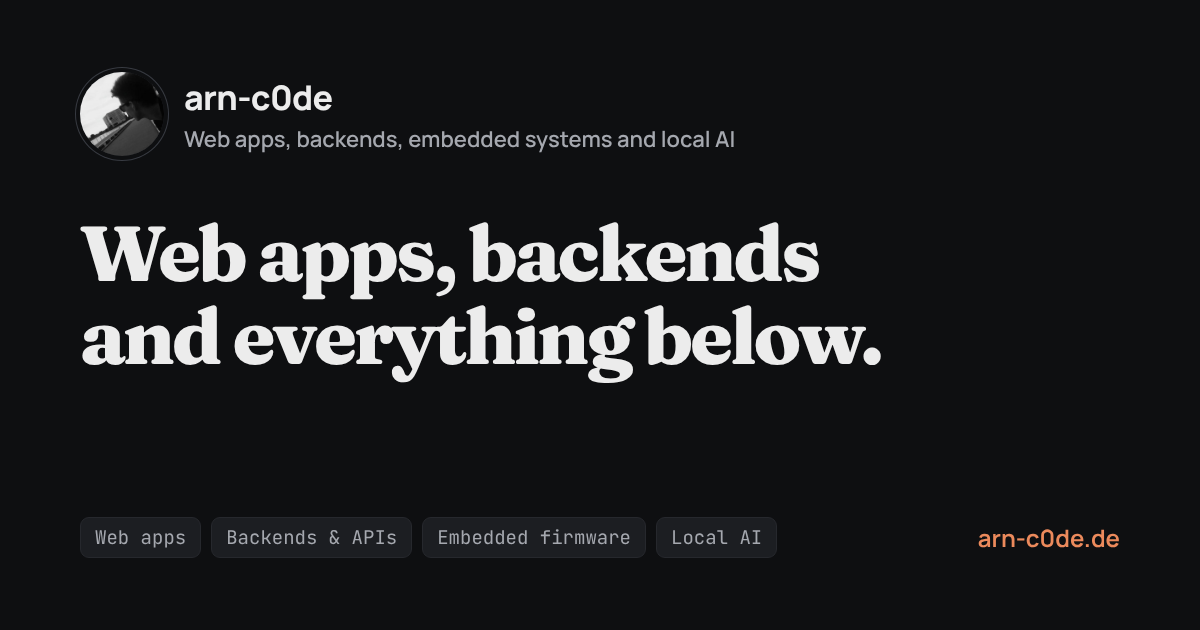
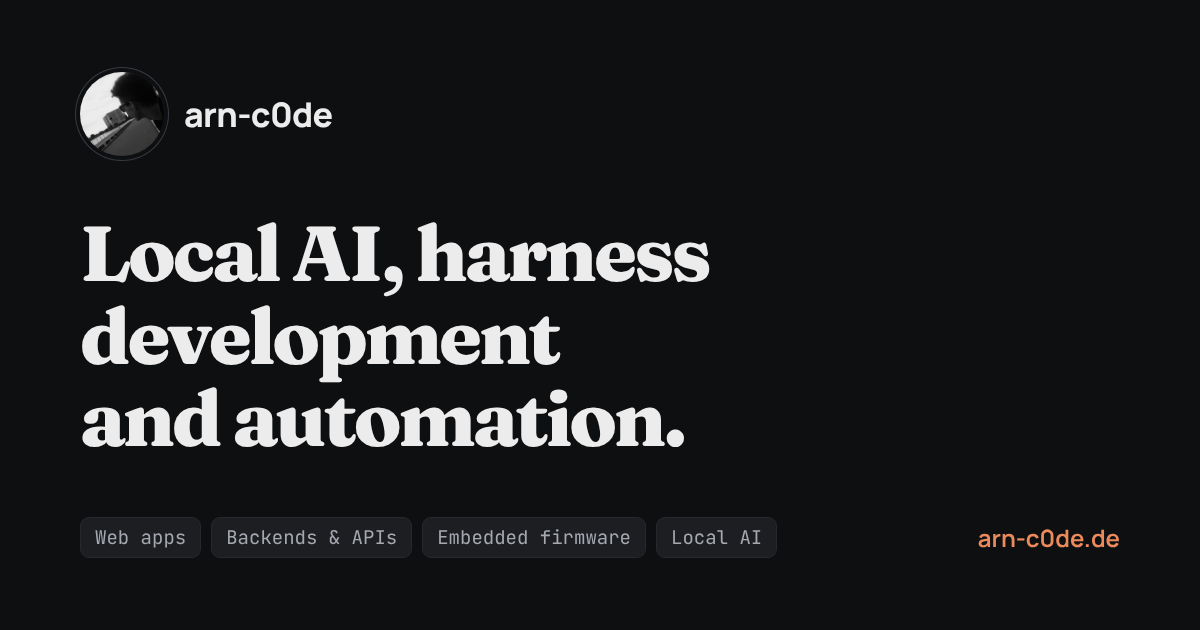
Start page: headline and tagline now say local AI, harness development and automation

Changed region(s): [[0.0617, 0.4825, 0.74, 0.7238], [0.0617, 0.3317, 0.6783, 0.4825], [0.1542, 0.1206, 0.6167, 0.2413]]

diff --git a/lib/i18n-de.ts b/lib/i18n-de.ts
@@ -358,7 +358,7 @@ export const DE: Record<string, string> = {
   'Start a request': 'Anfrage starten',
   'GitHub profile': 'GitHub-Profil',
   Sections: 'Bereiche',
-  'Web apps, backends, embedded systems and local AI': 'Web-Apps, Backends, Embedded-Systeme und lokale KI',
+  'Local AI, harness development and automation': 'Lokale KI, Harness-Entwicklung und Automatisierung',
   'Live from the GitHub API': 'Live aus der GitHub-API',
   'Showing committed snapshot': 'Zeigt gespeicherten Stand',
   'No tracking, no cookies, no analytics.': 'Kein Tracking, keine Cookies, keine Analyse.',
@@ -369,7 +369,7 @@ export const DE: Record<string, string> = {
   'Theme: light (click to change)': 'Design: hell (klicken zum Wechseln)',
 
   // Overview
-  'Web apps, backends and everything below.': 'Web-Apps, Backends und alles darunter.',
+  'Local AI, harness development and automation.': 'Lokale KI, Harness-Entwicklung und Automatisierung.',
   'Web apps & backends': 'Web-Apps & Backends',
   'Private access & requests': 'Privater Zugang & Anfragen',
   'Browse projects': 'Projekte ansehen',

diff --git a/components/OverviewPane.tsx b/components/OverviewPane.tsx
@@ -105,15 +105,10 @@ export default function OverviewPane({
               width={56}
               height={56}
             />
-            <div>
-              <p className="hero__handle">arn-c0de</p>
-              <p className="hero__tagline">
-                {t('Web apps, backends, embedded systems and local AI')}
-              </p>
-            </div>
+            <p className="hero__handle">arn-c0de</p>
           </div>
 
-          <h1 className="hero__name">{t('Web apps, backends and everything below.')}</h1>
+          <h1 className="hero__name">{t('Local AI, harness development and automation.')}</h1>
           <p className="hero__lede">{t('HERO_LEDE')}</p>
 
           <div className="hero__actions">

diff --git a/components/PageChrome.tsx b/components/PageChrome.tsx
@@ -53,7 +53,7 @@ export default function PageChrome({
               <img src={asset('/avatar.jpg')} alt="" width={22} height={22} />
               <span>arn-c0de</span>
               <span className="footer__sep" aria-hidden>·</span>
-              <span className="footer__muted">{t('Web apps, backends, embedded systems and local AI')}</span>
+              <span className="footer__muted">{t('Local AI, harness development and automation')}</span>
             </a>
             <span className="footer__link">
               <SocialLinks variant="icons" />

diff --git a/components/AppShell.tsx b/components/AppShell.tsx
@@ -476,7 +476,7 @@ function AppShellContent() {
             <img src={asset('/avatar.jpg')} alt="" width={22} height={22} />
             <span>arn-c0de</span>
             <span className="footer__sep" aria-hidden>·</span>
-            <span className="footer__muted">{t('Web apps, backends, embedded systems and local AI')}</span>
+            <span className="footer__muted">{t('Local AI, harness development and automation')}</span>
           </div>
 
           <div className="footer__row">
